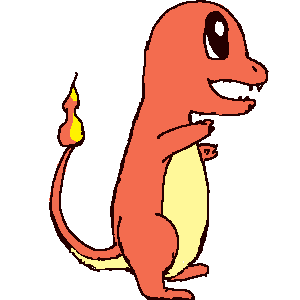
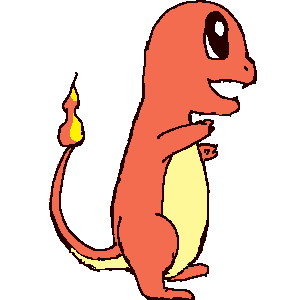
added charmander images for animation

Changed region(s): [[0.75, 0.18, 0.9, 0.39]]

diff --git a/js/script.js b/js/script.js
@@ -36,10 +36,10 @@ var p2 = {
 	name: 'Charmander',
 	//position: 21,
 	pNeutral:"url('img/charmander.png')",
-	pWalk:"url('img/charmander.png')",
-	pAttack:"url('img/charmander.png')",
-	pBlock:"url('img/charmander.png')",
-	pFlinch:"url('img/charmander.png')",
+	pWalk:"url('img/charmander walk.png')",
+	pAttack:"url('img/charmander attack.png')",
+	pBlock:"url('img/charmander block.png')",
+	pFlinch:"url('img/charmander flinch.png')",
 	html: $('#p2'),
 	shield: $('#p2shield'),
 	$hp: $('#p2hp'),
@@ -212,27 +212,35 @@ function calcDamage(aggressor, defender){
 		evolution(aggressor);
 		//stun defender if attack isn't blocked
 		stun(defender);
-		defender.html.css('background-image', defender.pFlinch);
-		setTimeout(function() {
-			neutralCSS(defender);
-		},250)
+		if (defender.attack != true) {
+			defender.html.css('background-image', defender.pFlinch);
+			setTimeout(function() {
+				neutralCSS(defender);
+			},250)	
+		}
 	}
 	else { //damage halved when block
 		defender.health -= aggressor.damage/defender.blockStrength;
 	}
 	//change css
-	//TEMPORARY check for p1
-	if (aggressor.name == 'Squirtle') {
-		aggressor.html.css('width', '350px');
-		aggressor.html.css('background-image', aggressor.pAttack);
-		aggressor.html.css('z-index', 1);
-		setTimeout(function() {
-			//if player blocks right after attacking, the neutralcss function will not reset the block animation
-			if (!aggressor.block) {
-				neutralCSS(aggressor);
-			}
-		},50*aggressor.attackSpeed);
+	aggressor.html.css('width', '350px');
+	aggressor.html.css('background-image', aggressor.pAttack);
+	aggressor.html.css('z-index', 1);
+	aggressor.attack = true;
+	if (aggressor == p2) {
+		aggressor.html.css('left', parseInt(aggressor.html.css('left'))-50);
 	}
+	setTimeout(function() {
+		//if player blocks right after attacking, the neutralcss function will not reset the block animation
+		if (!aggressor.block) {
+			neutralCSS(aggressor);
+			if (aggressor == p2) {
+				aggressor.html.css('left', parseInt(aggressor.html.css('left'))+50);
+			}
+		}
+		aggressor.attack = false;
+
+	},50*aggressor.attackSpeed);
 	setAttackCD(aggressor);
 	updateStats();
 	//KO
@@ -357,9 +365,6 @@ function updateStats() {
 }
 
 function resetGame(p1, p2) {
-	//reset position
-	p1.position = p1.nPosition;
-	p2.position = p2.nPosition;
 	//reset health
 	p1.health = p1.nHealth;
 	p2.health = p2.nHealth;
@@ -380,6 +385,9 @@ function resetGame(p1, p2) {
 	p2.html.removeClass('evo1');
 	neutralCSS(p1);
 	neutralCSS(p2);
+	//reset position
+	p1.position = p1.nPosition;
+	p2.position = p2.nPosition;
 	//reset timer
 	clearInterval(timerID);
 	//start timer and show stats
@@ -403,7 +411,7 @@ function knockOut(aggressor, defender) {
 		$document.off('keydown', movement);
 		$document.off('keyup', collisionDetection);
 		//ensure flashing interval is cleared
-		setTimeout(function() {alert(aggressor.name + " KO'd " + defender.name);}, 500);
+		//setTimeout(function() {alert(aggressor.name + " KO'd " + defender.name);}, 500);
 		//add badge
 		addBadge(aggressor);
 		aggressor.wins++;
@@ -433,6 +441,7 @@ function addBadge(winner) {
 // ------------------------------------------ANIMATION------------------------------------------ //
 
 function neutralCSS(player) {
+	player.html.css('width', '300px');
 	//check if even position
 	if (player.position%2 == 0) {
 		player.html.css('background-image',player.pNeutral);
@@ -440,5 +449,5 @@ function neutralCSS(player) {
 	else {
 		player.html.css('background-image',player.pWalk);
 	}
-	player.html.css('width', '300px');
+
 }

diff --git a/css/style.css b/css/style.css
@@ -14,17 +14,6 @@ body {
 	top: 0; bottom: 0; left: 0; right: 0;
 }
 
-div#p1, div#p2 {
-	width: 300px;
-	height: 300px;
-	/*top:550px;*/
-	background-size:100%;
-	border-radius:100px;
-}
-#p2 {
-	transform: scaleX(-1);
-}
-
 #stats {/*
 	border: 1px solid blue;*/
 	width:1199px;
@@ -99,13 +88,20 @@ h2, h4, div {
 }
 
 /*character changes*/
-#p1 {
+div#p1, div#p2 {
+	width: 300px;
+	height: 300px;
+	/*top:550px;*/
+	background-size:100%;
+/*	border-radius:100px;*/
 	position: absolute;
+}
+#p1 {
 	left:0px;
 }
 #p2 {
-	position: absolute;
 	left:900px;
+	transform: scaleX(-1);
 }
 /*#p1.standard {
 	background: url('../img/squirtle.png');
